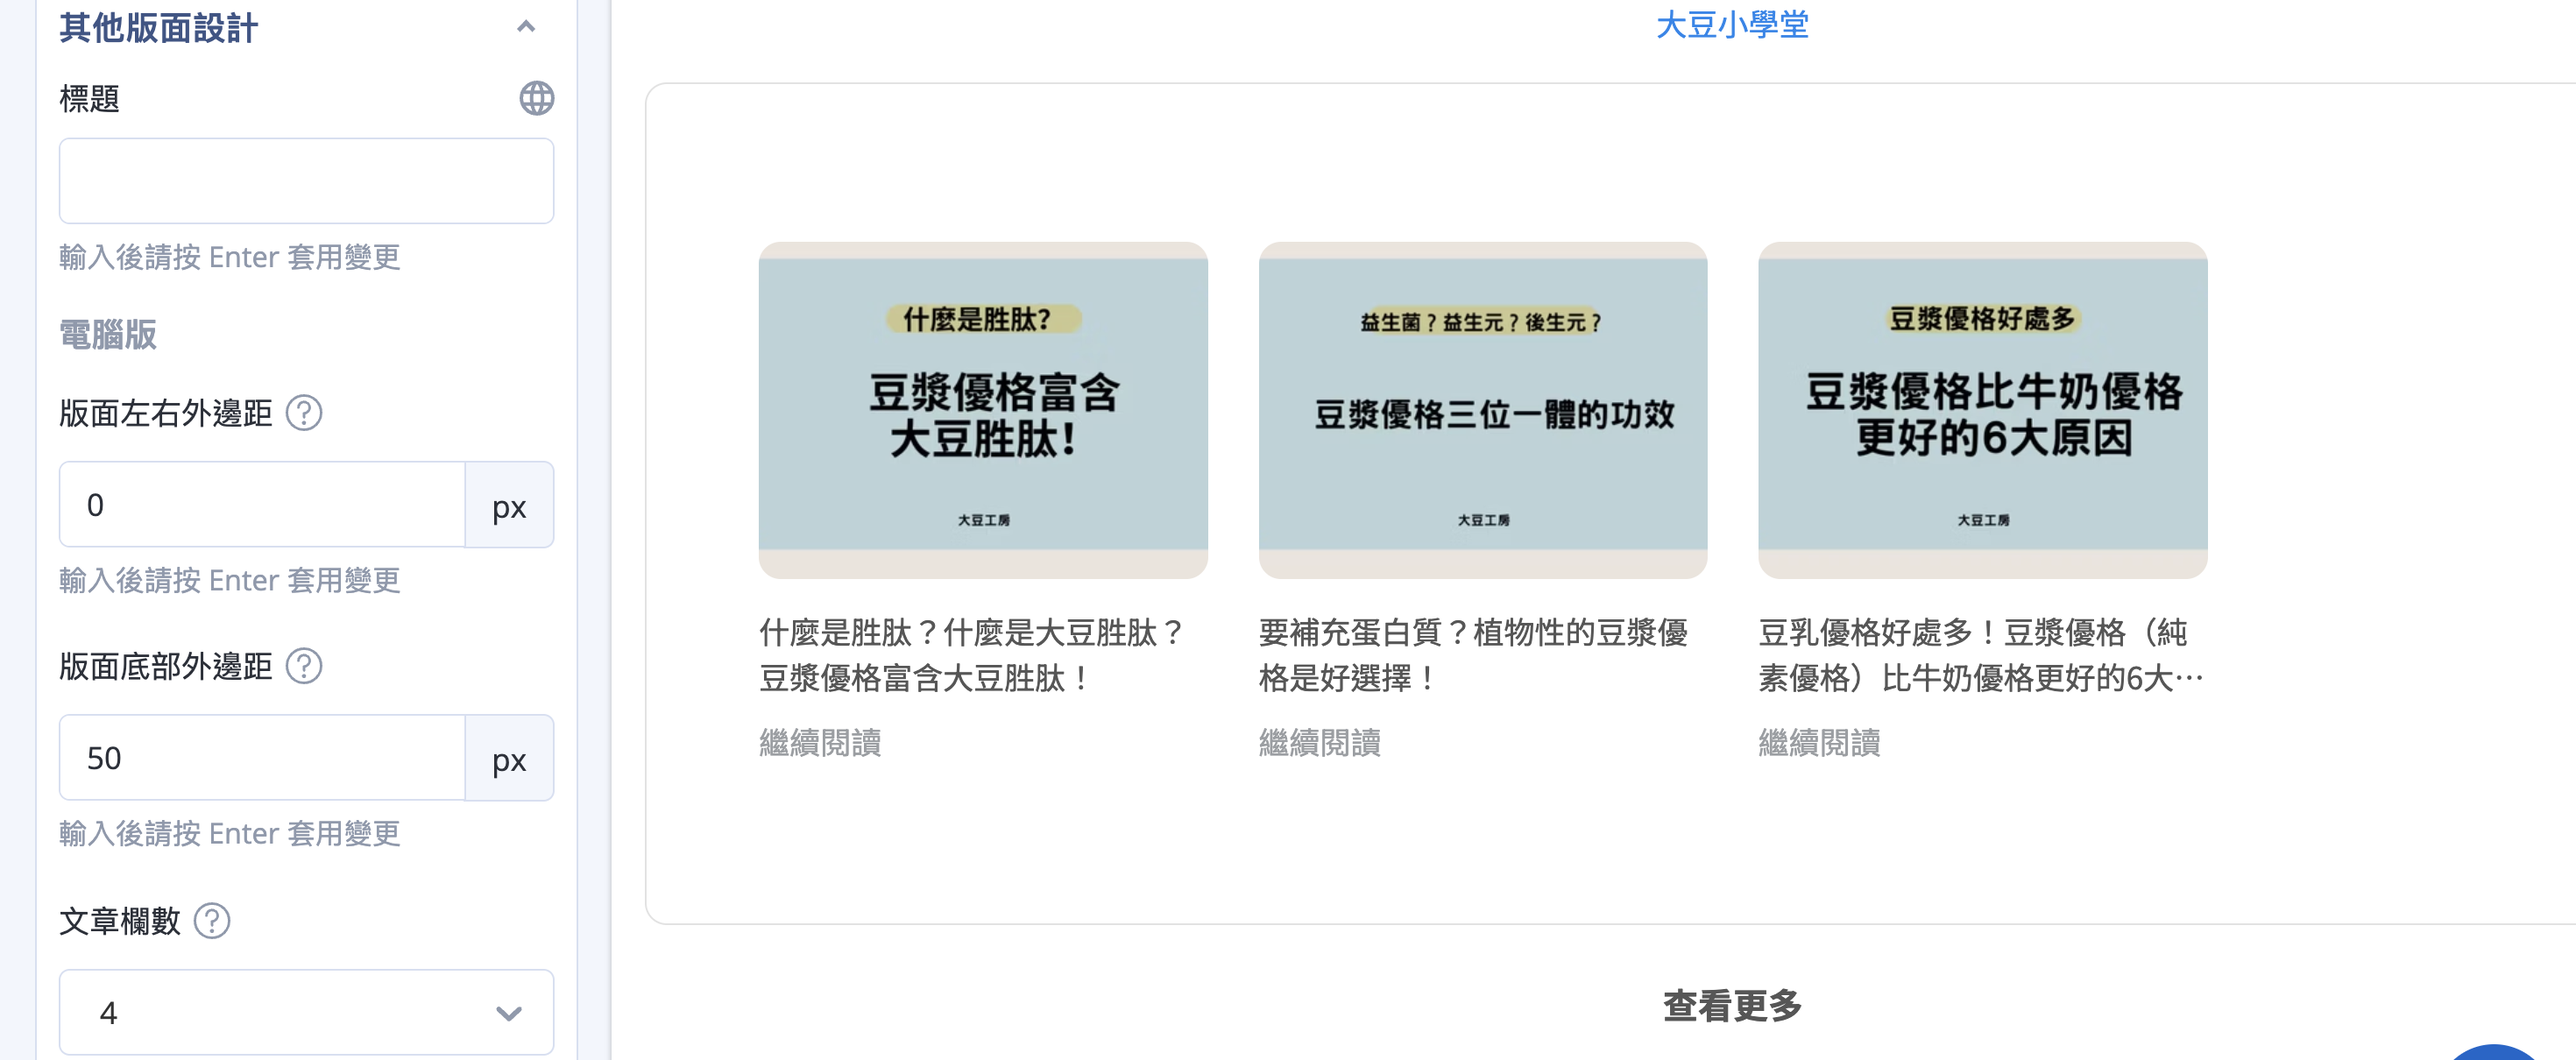
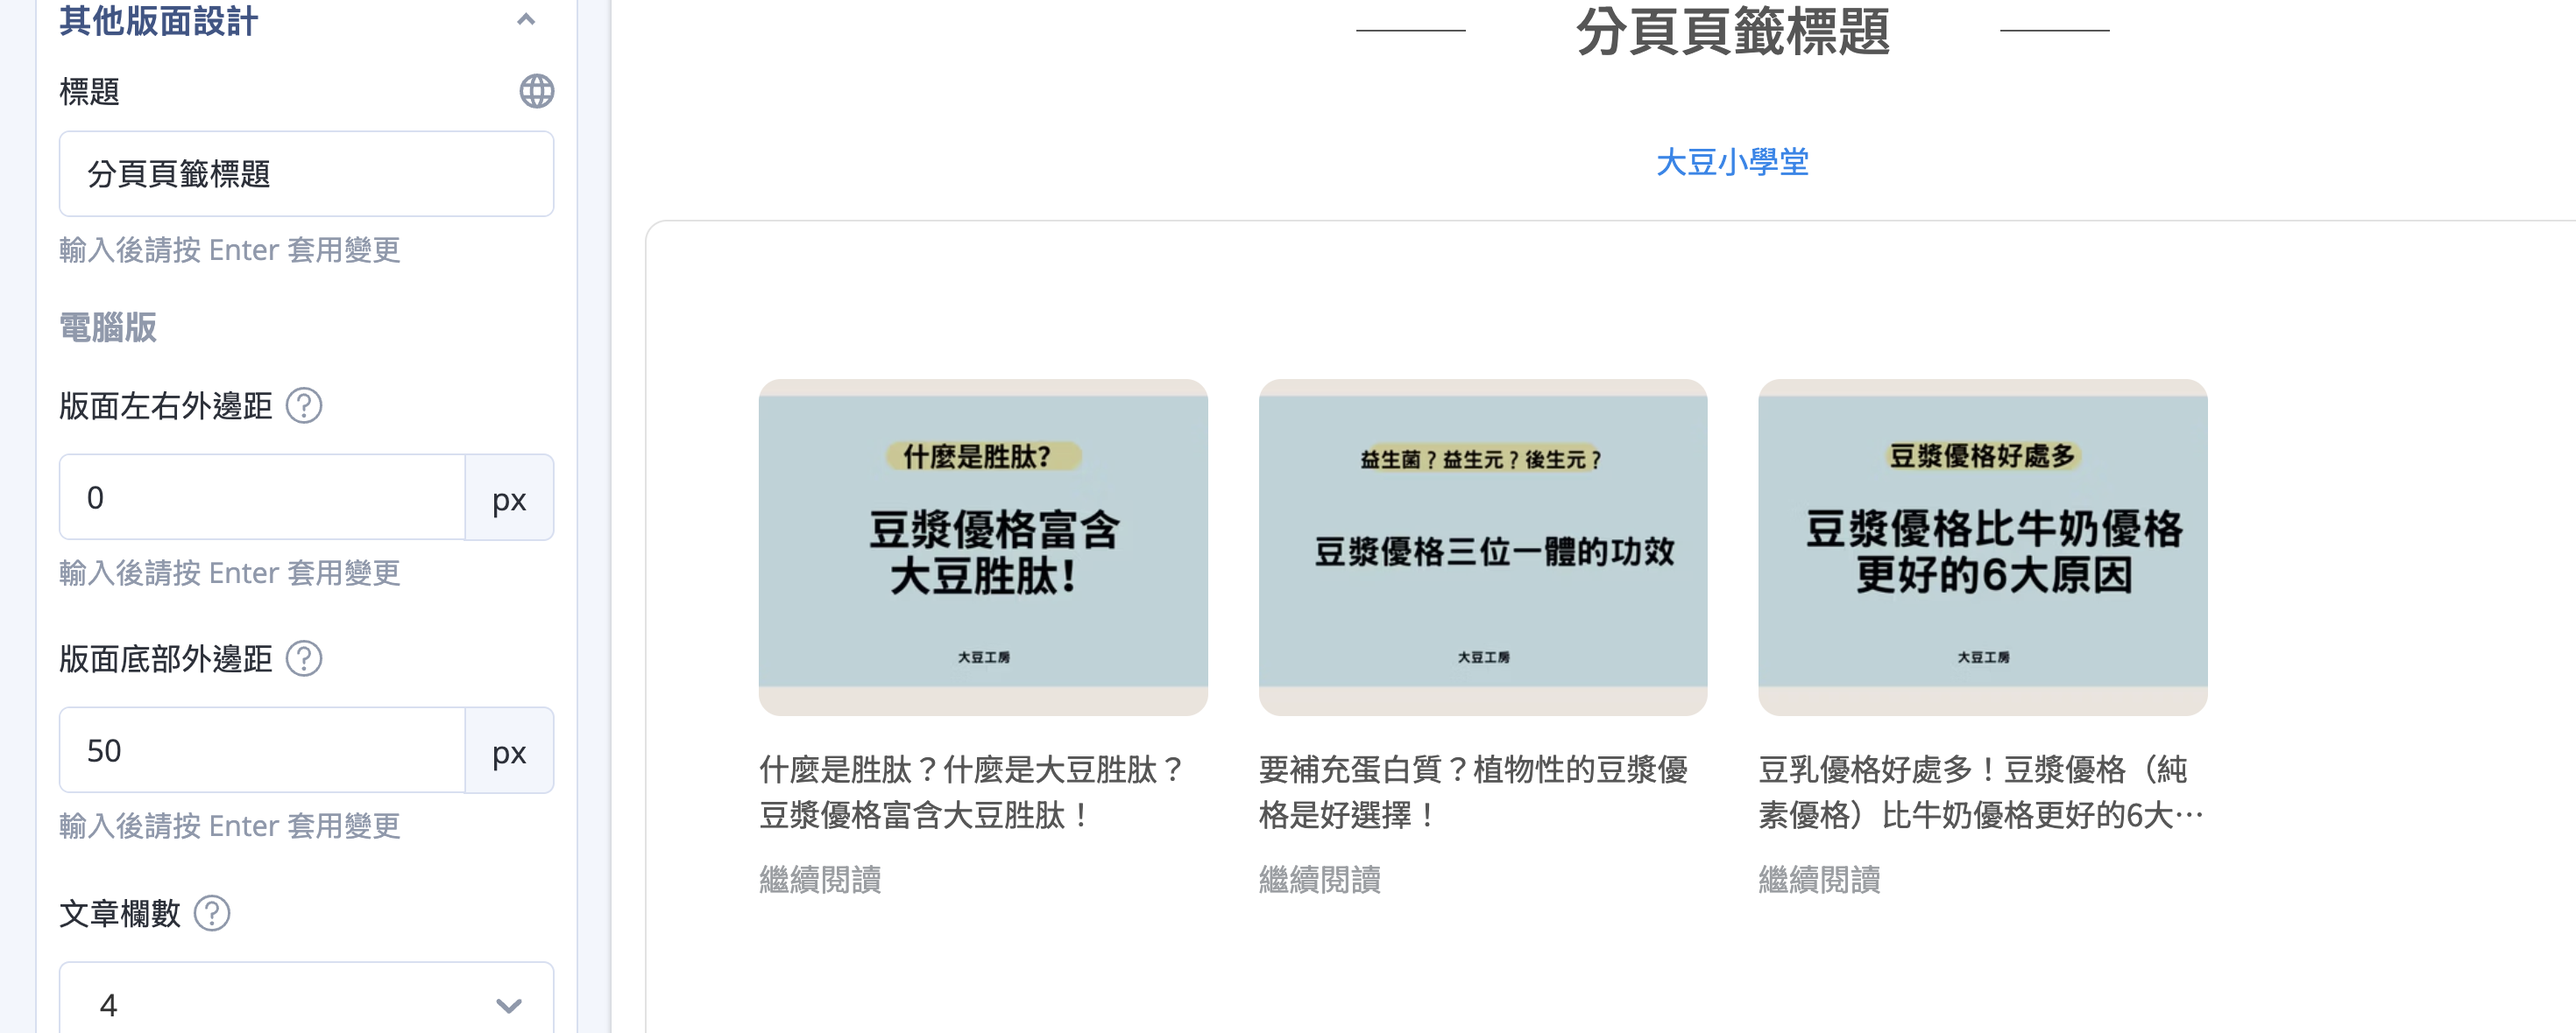
update

diff --git a/docs/ec/website-appearance/theme-and-layout/setup-theme-page-settings.md b/docs/ec/website-appearance/theme-and-layout/setup-theme-page-settings.md
@@ -2,7 +2,7 @@
 title: 各頁面設定指南
 description: 依頁面類型說明拖拉版型的各項設定，包含首頁區塊、商品頁面、部落格、客服頁等。
 created:
-last_modified: 2026-07-08 08:54
+last_modified: 2026-07-08 10:16
 lang: zh-TW
 permalink: https://help.cyberbiz.io/ec/website-appearance/theme-and-layout/setup-theme-page-settings
 type: tutorial
@@ -300,7 +300,7 @@ comments: false
 
             ![商品分類 - 分類樣式-全顯示](../../../assets/images/ec-website-appearance-collection-category-style-all.png) 
 
-    - **商品圖游標懸停效果**：共 5 種，快速加入購物車按鈕／圖片切換／陰影／邊框強調／放大效果。
+    - **商品圖游標懸停效果**：快速加入購物車按鈕、圖片切換、陰影／邊框強調、放大效果。
 
         === "快速加入購物車按鈕"
 
@@ -312,53 +312,41 @@ comments: false
         === "圖片切換"
             ![商品分類-懸停效果-圖片切換](../../../assets/images/ec-website-appearance-collection-hover-image-switch.gif){ title="圖片切換" }
 
-        === "陰影"
-            ![商品分類-懸停效果-陰影](../../../assets/images/ec-website-appearance-collection-hover-shadow.png){ title="陰影" }
-
-        === "邊框強調"
-            ![商品分類-懸停效果-邊框](../../../assets/images/ec-website-appearance-collection-hover-border.png){ title="邊框強調" }
+        === "陰影/邊框強調"
+            ![商品分類-懸停效果-陰影](../../../assets/images/ec-website-appearance-collection-hover-shadow.png){ title="陰影/邊框強調" }
 
         === "放大效果"
-            ![商品分類-懸停效果-放大](../../../assets/images/ec-website-appearance-collection-hover-zoom.png){ title="放大效果" }
+            ![商品分類-懸停效果-放大](../../../assets/images/ec-website-appearance-collection-hover-zoom.gif){ title="放大效果" }
 
-    - **商品圖圓角**（預設 15px）。 
+    - **商品圖圓角**（預設 15px）。
 
-
-    ![商品分類 - 懸停效果與圓角](../../../assets/images/ec-website-appearance-collection-hover-radius.png) 
-
-
-
-#### 商品分類 { #section-collection-blocks }
-
-從指定商品分類帶入商品的列表區塊。
-
-1. 新增「商品分類」區塊。
-2. 填寫 **標題**，點擊 **選擇商品分類** 挑選要顯示的分類。
-3. 設定商品數量上限與商品展開方式。
-
-    ![商品分類 - 基本設定](../../../assets/images/ec-website-appearance-collection-basic.png)
-
-4. 在 **版面設定** 中調整電腦／手機版的商品欄數、商品排列、文字排列。
-
-    ![商品分類 - 版面設定](../../../assets/images/ec-website-appearance-collection-layout.png)
-
-5. 在 **樣式設定** 中選擇電腦版商品分類樣式、商品圖游標懸停效果、商品圖圓角。
-
-    ![商品分類 - 分類樣式](../../../assets/images/ec-website-appearance-collection-category-style.png)
-
-    ![商品分類 - 懸停效果與圓角](../../../assets/images/ec-website-appearance-collection-hover-radius.png)
+        ![商品分類-商品圖圓角](../../../assets/images/ec-website-appearance-collection-border-radius.png){ title="商品圖圓角設定" }
 
 ---
 
-#### 影片設定 { #section-video }
+#### 影片設定 { #section-video } 
 
-嵌入單支影片。
+嵌入單支影片。 
 
-1. 新增「影片設定」區塊。
-2. 填寫 **標題** 與 **影片連結**。
-3. 設定自動播放、隱藏外框、重複播放等選項。
+1. 新增「影片設定」區塊。 
+2. 填寫 **標題** 與 **影片連結**。 
 
-![影片設定介面](../../../assets/images/ec-website-appearance-video.png)
+    ![影片設定-標題與連結](../../../assets/images/ec-website-appearance-video-title-link.png){ title="影片標題與連結" }
+
+    !!! info "僅支援 YouTube 影片"
+        請貼上完整影片連結，例：https://www.youtube.com/watch?
+
+3. 設定播放行為（皆為是／否）： 
+
+    - **自動播放**（預設關閉）：訪客瀏覽至頁面影片區塊時影片將自動播放。因瀏覽器限制，開啟自動播放時影片將自動轉為靜音播放。
+    - **隱藏外框**（預設關閉）：當影片開啟自動播放，且啟用隱藏外框，該 YouTube 無法暫停影片
+    - **重複播放**（**預設開啟**）。 
+
+    ![影片設定-播放行為](../../../assets/images/ec-website-appearance-video-playback-settings.png){ title="影片播放行為設定" }
+
+4. 調整電腦／手機版面邊距（此區塊四組邊距預設皆為 0）。
+
+    ![影片設定-版面邊距](../../../assets/images/ec-website-appearance-video-margins.png){ title="影片版面邊距設定" }
 
 ---
 
@@ -367,7 +355,7 @@ comments: false
 以頁籤呈現多個部落格的文章。
 
 1. 新增「分頁頁籤」區塊。
-2. 在 **其他版面設定** 中填寫標題，設定文章欄數。
+2. 在 **其他版面設定** 中填寫標題、調整版型邊距、設定文章欄數。
 
     ![分頁頁籤 - 基本設定](../../../assets/images/ec-website-appearance-blog-tabs-basic.png)
 
@@ -377,12 +365,75 @@ comments: false
 
 ---
 
+#### 自訂排版設計 { #section-custom-blocks } 
+
+自由組合多種小區塊的彈性版面。 
+
+1. 新增「自訂排版設計」區塊。 
+2. 在 **其他版面設定** 設定版面： 
+
+    - 電腦版／手機版的 **版面邊距**。 
+    - **區塊間距**：小區塊之間的距離，電腦版與手機版可各自設定（預設 10px）。 
+    - **手機版排版**：控制小區塊在手機上的排列方式。 
+
+3. 點擊 **新增小區塊**，選擇要加入的元件類型。**每一種小區塊都可設定「版面螢幕占比」** 來控制寬度： 
+
+    ![自訂排版設計-新增小區塊](../../../assets/images/ec-website-appearance-custom-blocks-add-block.png){ title="新增小區塊" }
+
+=== "圖片" 
+
+    1. 上傳電腦／平板／手機版圖片（僅傳電腦版時自動沿用）。 
+    2. 填寫 **圖片標題、圖片說明（進階文字）、圖片連結（可新分頁開啟）、圖片替代文字**。 
+    3. 設定 **版面螢幕占比**。 
+
+    ![自訂排版設計 - 圖片](../../../assets/images/ec-website-appearance-custom-blocks-image.png) 
+
+=== "影片" 
+
+    1. 貼入 **影片連結**。 
+    2. 設定 **自動播放／隱藏外框／重複播放**（重複播放預設開啟）。 
+    3. 設定 **版面螢幕占比**。 
+
+    ![自訂排版設計 - 影片](../../../assets/images/ec-website-appearance-custom-blocks-video.png) 
+
+=== "排程跑馬燈" 
+
+    1. 載入預先製作好的 **跑馬燈群組**。 
+    2. 設定 **版面螢幕占比**。 
+    3. 詳見 [排程跑馬燈設定指南](configure-scheduled-carousels.md){ title="建立與管理排程跑馬燈" }。 
+
+    ![自訂排版設計 - 排程跑馬燈](../../../assets/images/ec-website-appearance-custom-blocks-carousel.png) 
+
+=== "自訂 HTML" 
+
+    1. 點擊「編輯」進入 HTML 編輯頁面。 
+    2. 貼入自訂 HTML／CSS 程式碼。 
+    3. 設定 **版面螢幕占比**。 
+
+    ![自訂排版設計 - 自訂 HTML](../../../assets/images/ec-website-appearance-custom-blocks-html.png) 
+
+=== "商品" 
+
+    1. 點擊「選擇商品」找出商品（僅能選單一商品）。 
+    2. 設定 **電腦版商品分類樣式** 及 **版面螢幕占比**。 
+
+    ![自訂排版設計 - 選擇商品](../../../assets/images/ec-website-appearance-custom-blocks-product-select.png) 
+
+    ![自訂排版設計 - 分類樣式與版面占比](../../../assets/images/ec-website-appearance-custom-blocks-product-layout.png) 
+
+!!! tip "設計模組的版面比例" 
+    透過「**版面螢幕占比**」控制每個小區塊的寬度，讓多個小區塊在同一橫列並排。每列總占比上限 100%，超過即自動換行。 
+
+
+
 #### 自訂排版設計 { #section-custom-blocks }
 
 自由組合多種小區塊的彈性版面，可設定區塊間距與手機版排版。
 
 1. 新增「自訂排版設計」區塊。
 2. 點擊 **新增小區塊**，選擇要加入的元件類型：
+
+    ![自訂排版設計-新增小區塊](../../../assets/images/ec-website-appearance-custom-blocks-add-block.png){ title="新增小區塊" }
 
 === "圖片"
 
@@ -700,95 +751,12 @@ comments: false
 
  --- 
 
- #### 影片設定 { #section-video } 
-
- 嵌入單支影片。 
-
- 1. 新增「影片設定」區塊。 
- 2. 填寫 **標題** 與 **影片連結**。 
- 3. 設定播放行為（皆為是／否）： 
-
-     - **自動播放**（預設關閉）。 
-     - **隱藏外框**（預設關閉）。 
-     - **重複播放**（**預設開啟**）。 
-
- 4. 在 **其他版面設定** 調整電腦／手機版面邊距（此區塊四組邊距預設皆為 0）。 
-
- ![影片設定介面](../../../assets/images/ec-website-appearance-video.png) 
 
  --- 
 
- #### 分頁頁籤 { #section-blog-tabs } 
-
- 以頁籤呈現多個部落格的文章。 
-
- 1. 新增「分頁頁籤」區塊。 
- 2. 在 **其他版面設定** 中填寫 **標題**，並設定 **文章欄數**（**2～5 欄**，預設 4）。 
-
-     ![分頁頁籤 - 基本設定](../../../assets/images/ec-website-appearance-blog-tabs-basic.png) 
-
- 3. 在 **部落格** 小區塊中新增／管理頁籤，**每個小區塊各自選擇一個要顯示的部落格**（可加入多個小區塊形成多頁籤）。 
-
-     ![分頁頁籤 - 部落格選擇](../../../assets/images/ec-website-appearance-blog-tabs-select.png) 
 
  --- 
 
- #### 自訂排版設計 { #section-custom-blocks } 
-
- 自由組合多種小區塊的彈性版面。 
-
- 1. 新增「自訂排版設計」區塊。 
- 2. 在 **其他版面設定** 設定版面： 
-
-     - 電腦版／手機版的 **版面邊距**。 
-     - **區塊間距**：小區塊之間的距離，電腦版與手機版可各自設定（預設 10px）。 
-     - **手機版排版**：控制小區塊在手機上的排列方式。 
-
- 3. 點擊 **新增小區塊**，選擇要加入的元件類型。**每一種小區塊都可設定「版面螢幕占比」** 來控制寬度： 
-
- === "圖片" 
-
-     1. 上傳電腦／平板／手機版圖片（僅傳電腦版時自動沿用）。 
-     2. 填寫 **圖片標題、圖片說明（進階文字）、圖片連結（可新分頁開啟）、圖片替代文字**。 
-     3. 設定 **版面螢幕占比**。 
-
-     ![自訂排版設計 - 圖片](../../../assets/images/ec-website-appearance-custom-blocks-image.png) 
-
- === "影片" 
-
-     1. 貼入 **影片連結**。 
-     2. 設定 **自動播放／隱藏外框／重複播放**（重複播放預設開啟）。 
-     3. 設定 **版面螢幕占比**。 
-
-     ![自訂排版設計 - 影片](../../../assets/images/ec-website-appearance-custom-blocks-video.png) 
-
- === "排程跑馬燈" 
-
-     1. 載入預先製作好的 **跑馬燈群組**。 
-     2. 設定 **版面螢幕占比**。 
-     3. 詳見 [排程跑馬燈設定指南](configure-scheduled-carousels.md){ title="建立與管理排程跑馬燈" }。 
-
-     ![自訂排版設計 - 排程跑馬燈](../../../assets/images/ec-website-appearance-custom-blocks-carousel.png) 
-
- === "自訂 HTML" 
-
-     1. 點擊「編輯」進入 HTML 編輯頁面。 
-     2. 貼入自訂 HTML／CSS 程式碼。 
-     3. 設定 **版面螢幕占比**。 
-
-     ![自訂排版設計 - 自訂 HTML](../../../assets/images/ec-website-appearance-custom-blocks-html.png) 
-
- === "商品" 
-
-     1. 點擊「選擇商品」找出商品（僅能選單一商品）。 
-     2. 設定 **電腦版商品分類樣式** 及 **版面螢幕占比**。 
-
-     ![自訂排版設計 - 選擇商品](../../../assets/images/ec-website-appearance-custom-blocks-product-select.png) 
-
-     ![自訂排版設計 - 分類樣式與版面占比](../../../assets/images/ec-website-appearance-custom-blocks-product-layout.png) 
-
- !!! tip "設計模組的版面比例" 
-     透過「**版面螢幕占比**」控制每個小區塊的寬度，讓多個小區塊在同一橫列並排。每列總占比上限 100%，超過即自動換行。 
 
  --- 
 
